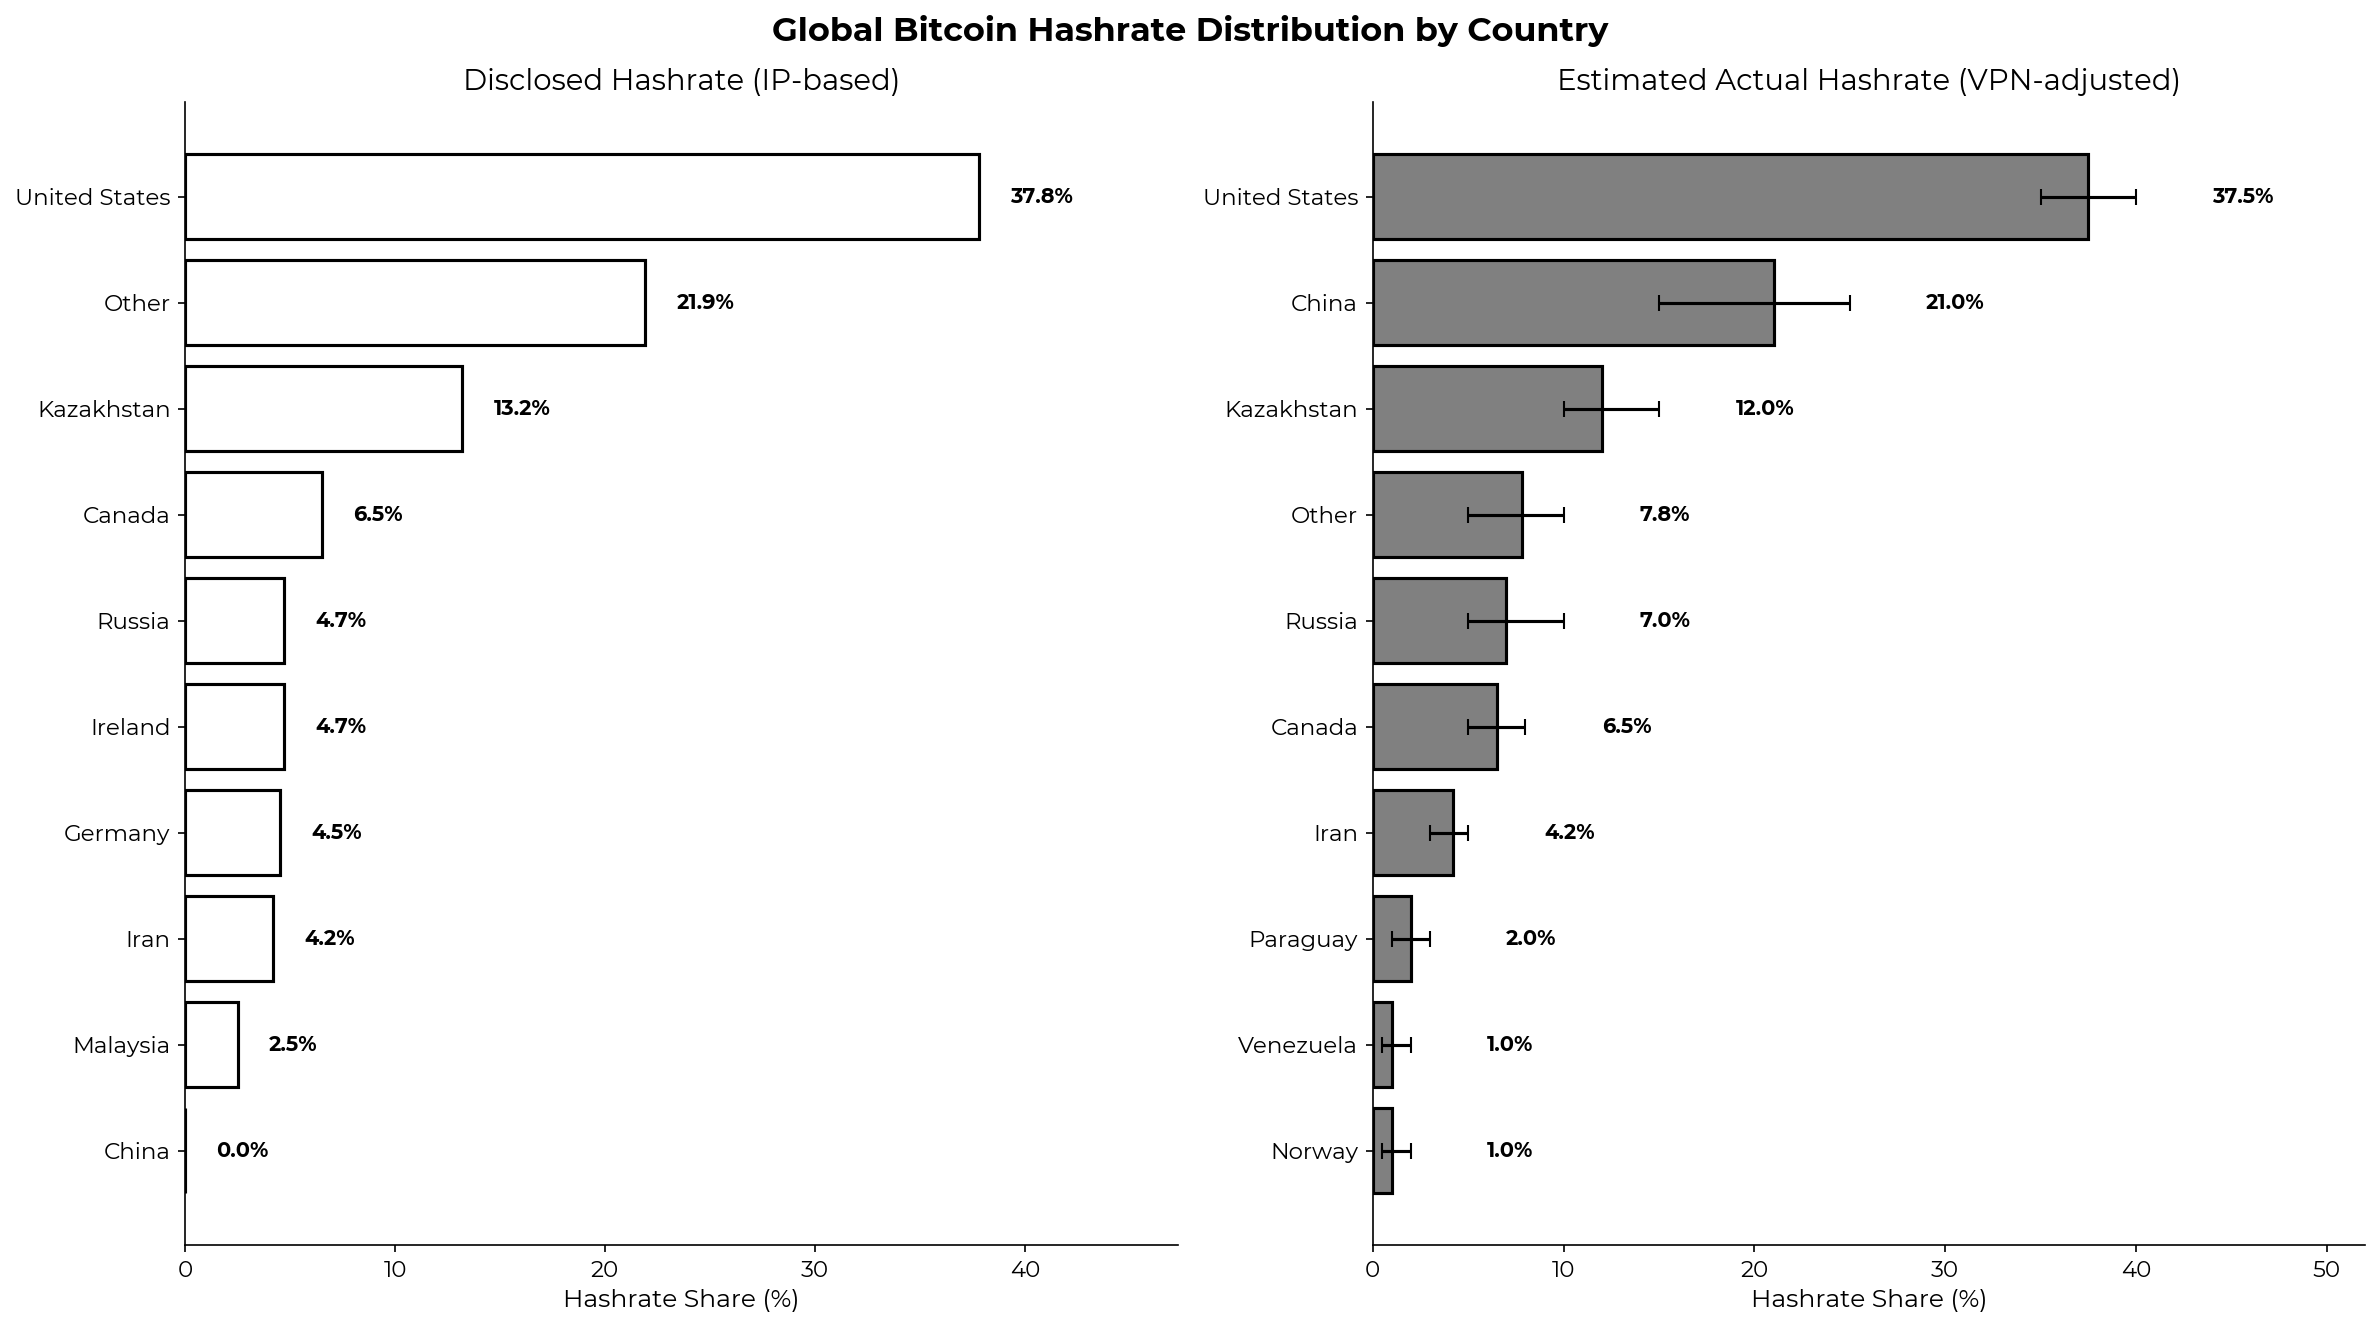
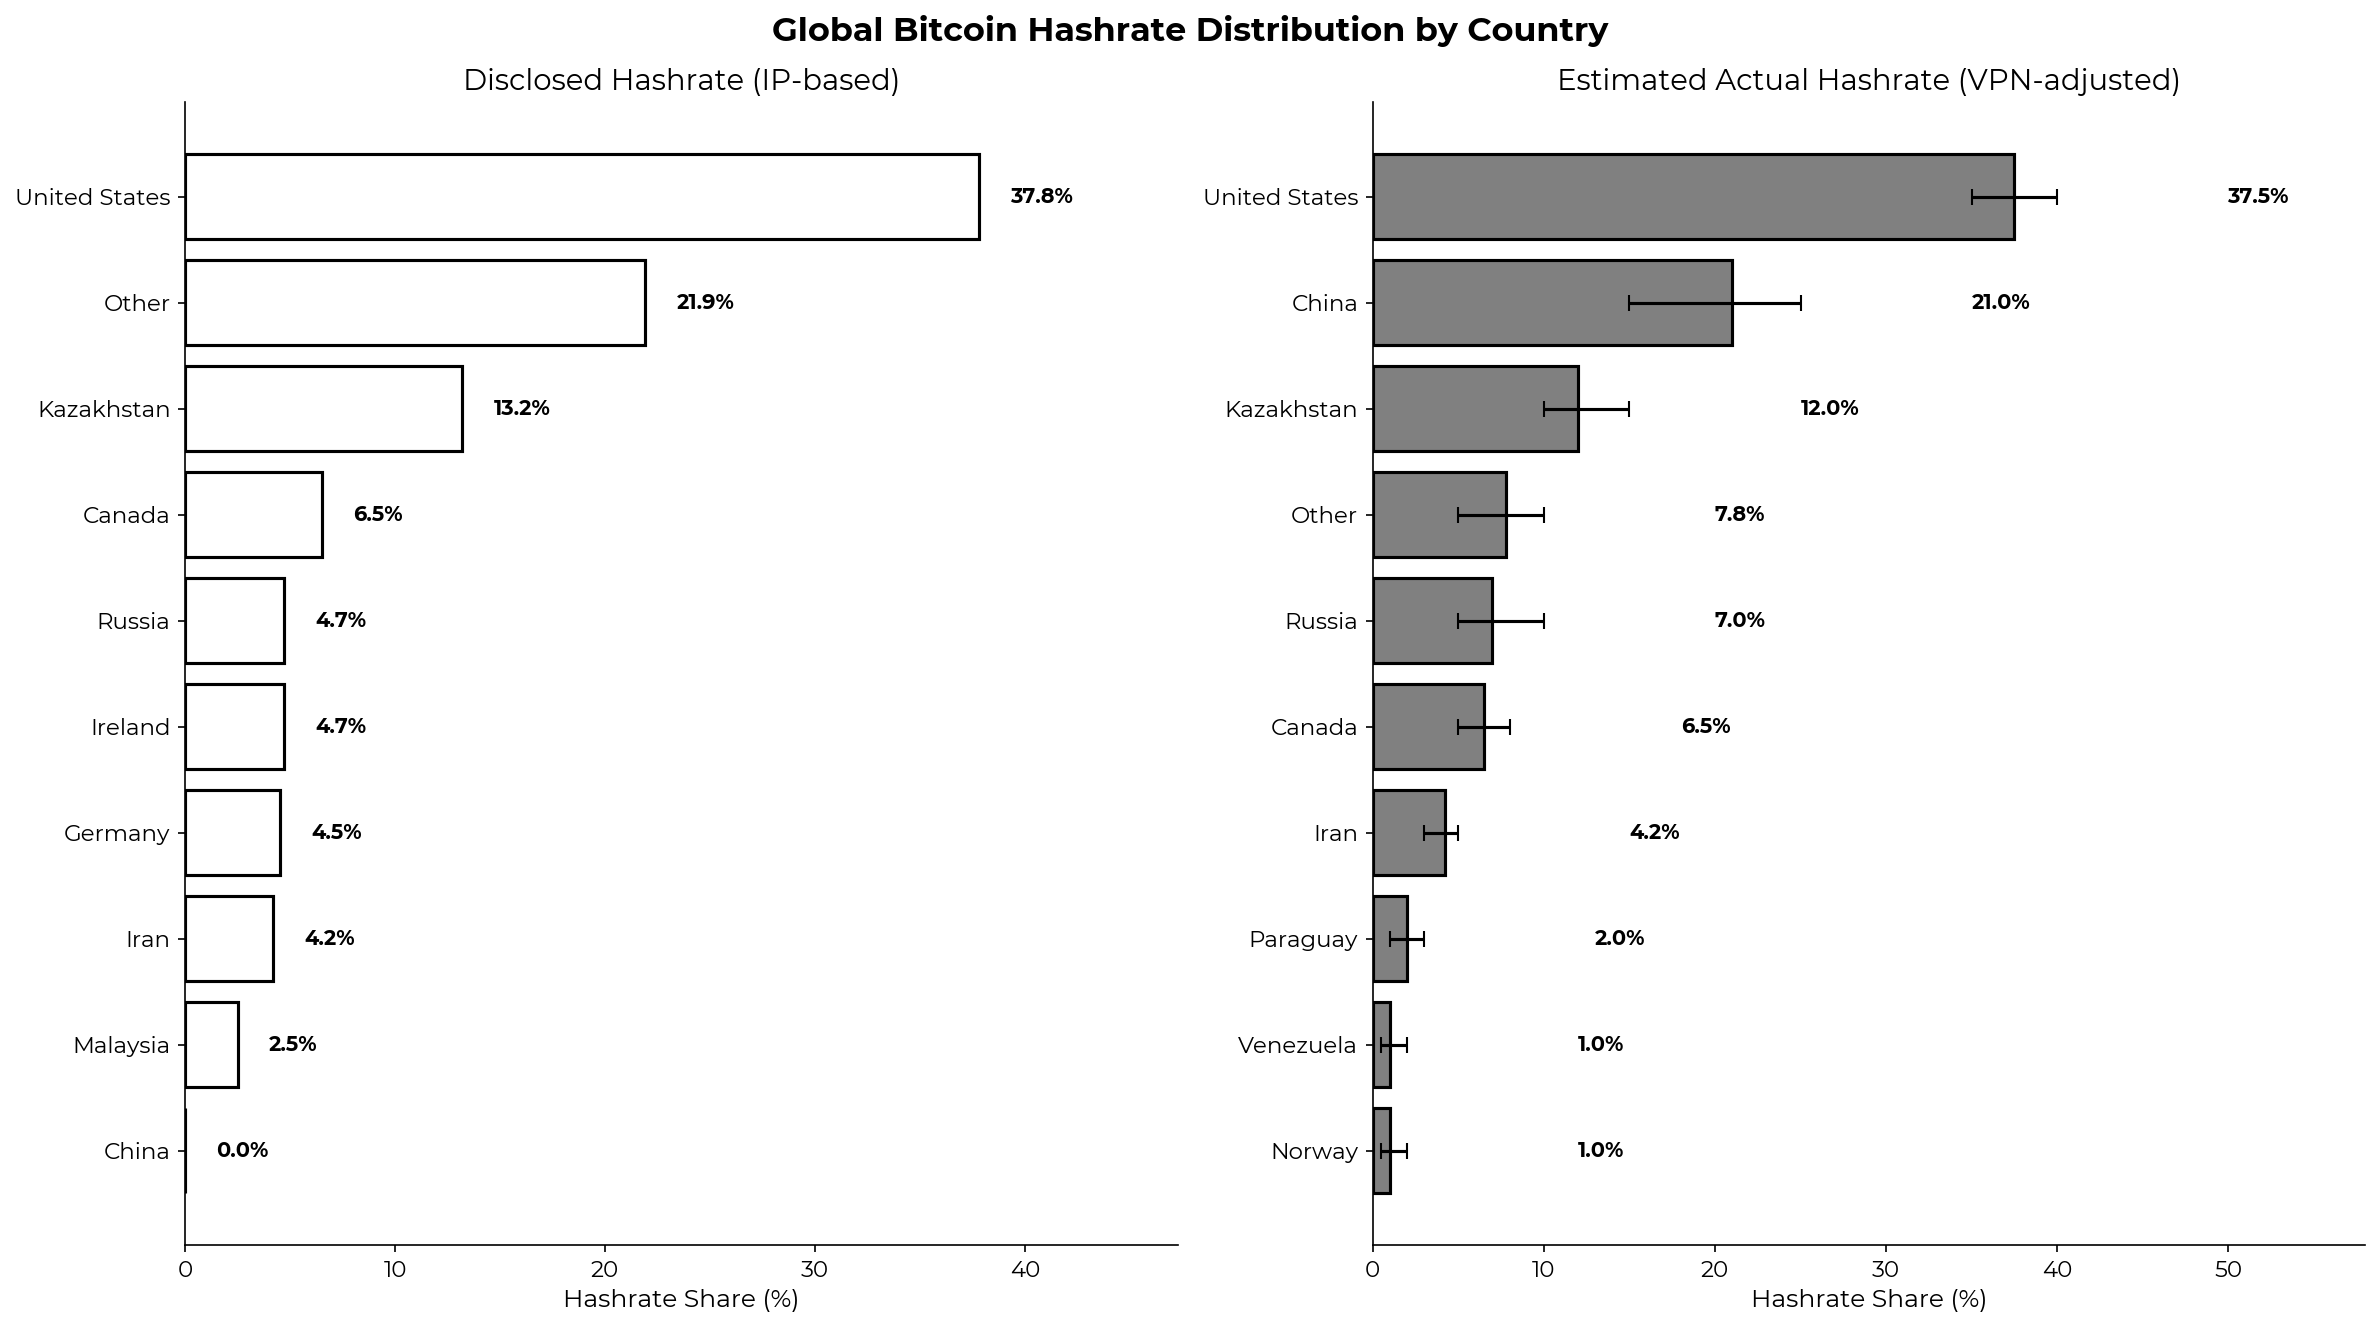
Fix graph label visibility - position labels beyond error bars
- Increased label offset from val_high + 4 to val_high + 10
- Extended x-axis limit to max(values_high) + 18
- Labels now have clear separation from error bar endpoints

https://claude.ai/code/session_01Vh1HuXmVpiFcfU4g9MUR6D

diff --git a/visualizations/generate_visualizations.py b/visualizations/generate_visualizations.py
@@ -101,11 +101,11 @@ def create_hashrate_bar_chart(hashrate_data):
     ax2.set_xlabel('Hashrate Share (%)', fontsize=12)
     ax2.set_title('Estimated Actual Hashrate (VPN-adjusted)', fontsize=14, color='white')
     ax2.invert_yaxis()
-    ax2.set_xlim(0, max(values_high) * 1.3)  # Extend x-axis for labels
+    ax2.set_xlim(0, max(values_high) + 18)  # Extend x-axis significantly for labels
 
     # Position labels well beyond error bars
     for i, (val, val_high) in enumerate(zip(values_mid, values_high)):
-        label_x = val_high + 4  # Position well beyond upper error bar
+        label_x = val_high + 10  # Position much further beyond upper error bar
         ax2.text(label_x, i, f'{val:.1f}%', va='center', color='white', fontsize=10, fontweight='bold')
 
     plt.tight_layout()

diff --git a/visualizations/generate_visualizations_bw.py b/visualizations/generate_visualizations_bw.py
@@ -120,11 +120,11 @@ def create_hashrate_bar_chart(hashrate_data):
     ax2.set_xlabel('Hashrate Share (%)', fontsize=12)
     ax2.set_title('Estimated Actual Hashrate (VPN-adjusted)', fontsize=14)
     ax2.invert_yaxis()
-    ax2.set_xlim(0, max(values_high) * 1.3)  # Extend x-axis for labels
+    ax2.set_xlim(0, max(values_high) + 18)  # Extend x-axis significantly for labels
 
     # Position labels well beyond error bars
     for i, (val, val_high) in enumerate(zip(values_mid, values_high)):
-        label_x = val_high + 4  # Position well beyond upper error bar
+        label_x = val_high + 10  # Position much further beyond upper error bar
         ax2.text(label_x, i, f'{val:.1f}%', va='center', fontsize=10, fontweight='bold')
 
     plt.tight_layout()
